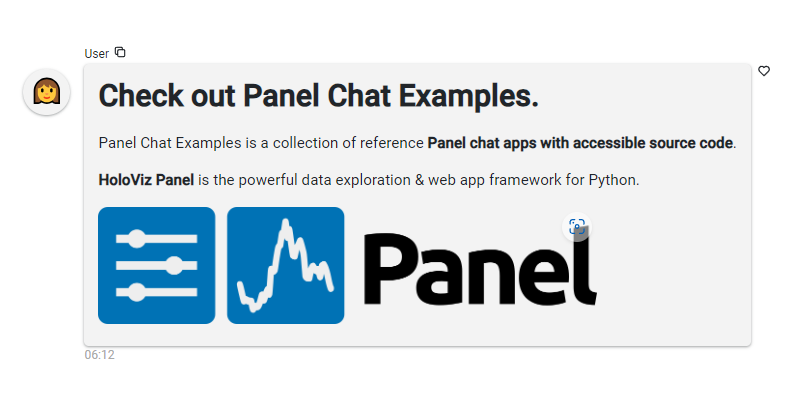
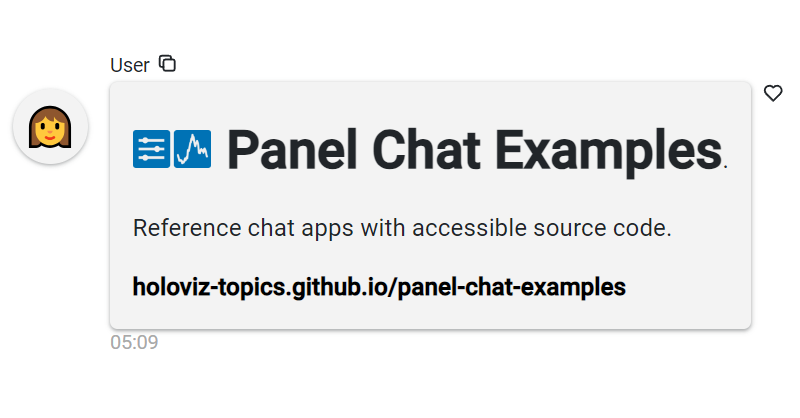
improve social

diff --git a/overrides/main.html b/overrides/main.html
@@ -12,12 +12,12 @@
   <meta name="twitter:creator" content="@Panel_org" />
   <meta name="twitter:title" content="{{ title }}" />
   <meta name="twitter:description" content="{{ config.site_description }}" />
-  <meta name="twitter:image" content="https://holoviz-topics.github.io/panel-chat-examples/assets/images/panel-chat-examples-card-800x418.png?version=1" />
+  <meta name="twitter:image" content="https://holoviz-topics.github.io/panel-chat-examples/assets/images/panel-chat-examples-card-800x418.png?version=2" />
   <meta property="og:type" content="website" />
   <meta property="og:title" content="{{ title }}" />
   <meta property="og:description" content="{{ config.site_description }}" />
   <meta property="og:url" content="{{ page.canonical_url }}" />
-  <meta property="og:image" content="https://holoviz-topics.github.io/panel-chat-examples/assets/images/panel-chat-examples-card-1600x837.png?version=1" />
+  <meta property="og:image" content="https://holoviz-topics.github.io/panel-chat-examples/assets/images/panel-chat-examples-card-1600x837.png?version=2" />
   <meta property="og:image:type" content="image/png" />
   <meta property="og:image:width" content="1600" />
   <meta property="og:image:height" content="837" />

diff --git a/scripts/social_card_app.py b/scripts/social_card_app.py
@@ -6,15 +6,24 @@ import panel as pn
 pn.extension(design="material")
 
 WELCOME = """
-# Check out **Panel Chat Examples**.
+<link rel="stylesheet" type="text/css" href="https://fonts.googleapis.com/css?family=Ubuntu">
+<style>
+a {
+ text-decoration: none !important;
+ color:black;
+}
+</style>
+<div style="text-align:center;margin-top:20px;font-family: Ubuntu, \
+"times new roman", times, roman, serif;">
+<img src="https://github.com/holoviz-topics/panel-chat-examples/raw/main/docs/assets\
+/images/panel-logo.png" style="height:25px;margin-right:10px"></img>\
+<span style="font-size:35px;font-weight:900;text-align:center">\
+Panel Chat Examples</span>.
+</div>
 
-Panel Chat Examples is a collection of reference **Panel chat apps with accessible \
-source code**.
+Reference chat apps with accessible source code.
 
-**HoloViz Panel** is the powerful data exploration & web app framework for Python.
-
-<img src="https://panel.holoviz.org/_static/logo_horizontal_light_theme.png" \
-style="height:125px"></img>
+**holoviz-topics.github.io/panel-chat-examples**
 """
 
 

diff --git a/README.md b/README.md
@@ -8,9 +8,8 @@ Examples using [Panel](https://panel.holoviz.org/) and its [Chat Components](htt
 
 **Documentation**: <a href="https://holoviz-topics.github.io/panel-chat-examples/" target="_blank">https://holoviz-topics.github.io/panel-chat-examples/</a>
 
-<video controls>
-    <source src="https://github.com/holoviz-topics/panel-chat-examples/raw/main/assets/videos/panel-chat-examples-splash.mp4" type="video/mp4"
-    style="max-height: 400px; max-width: 600px;">
+<video controls style="height:auto;width: 100%;max-height:500px" poster="https://github.com/holoviz-topics/panel-chat-examples/raw/main/docs/assets/images/panel-chat-examples-card-1600x837.png">
+    <source src="https://github.com/holoviz-topics/panel-chat-examples/raw/main/assets/videos/panel-chat-examples-splash.mp4" type="video/mp4">
     Your browser does not support the video tag.
 </video>
 
